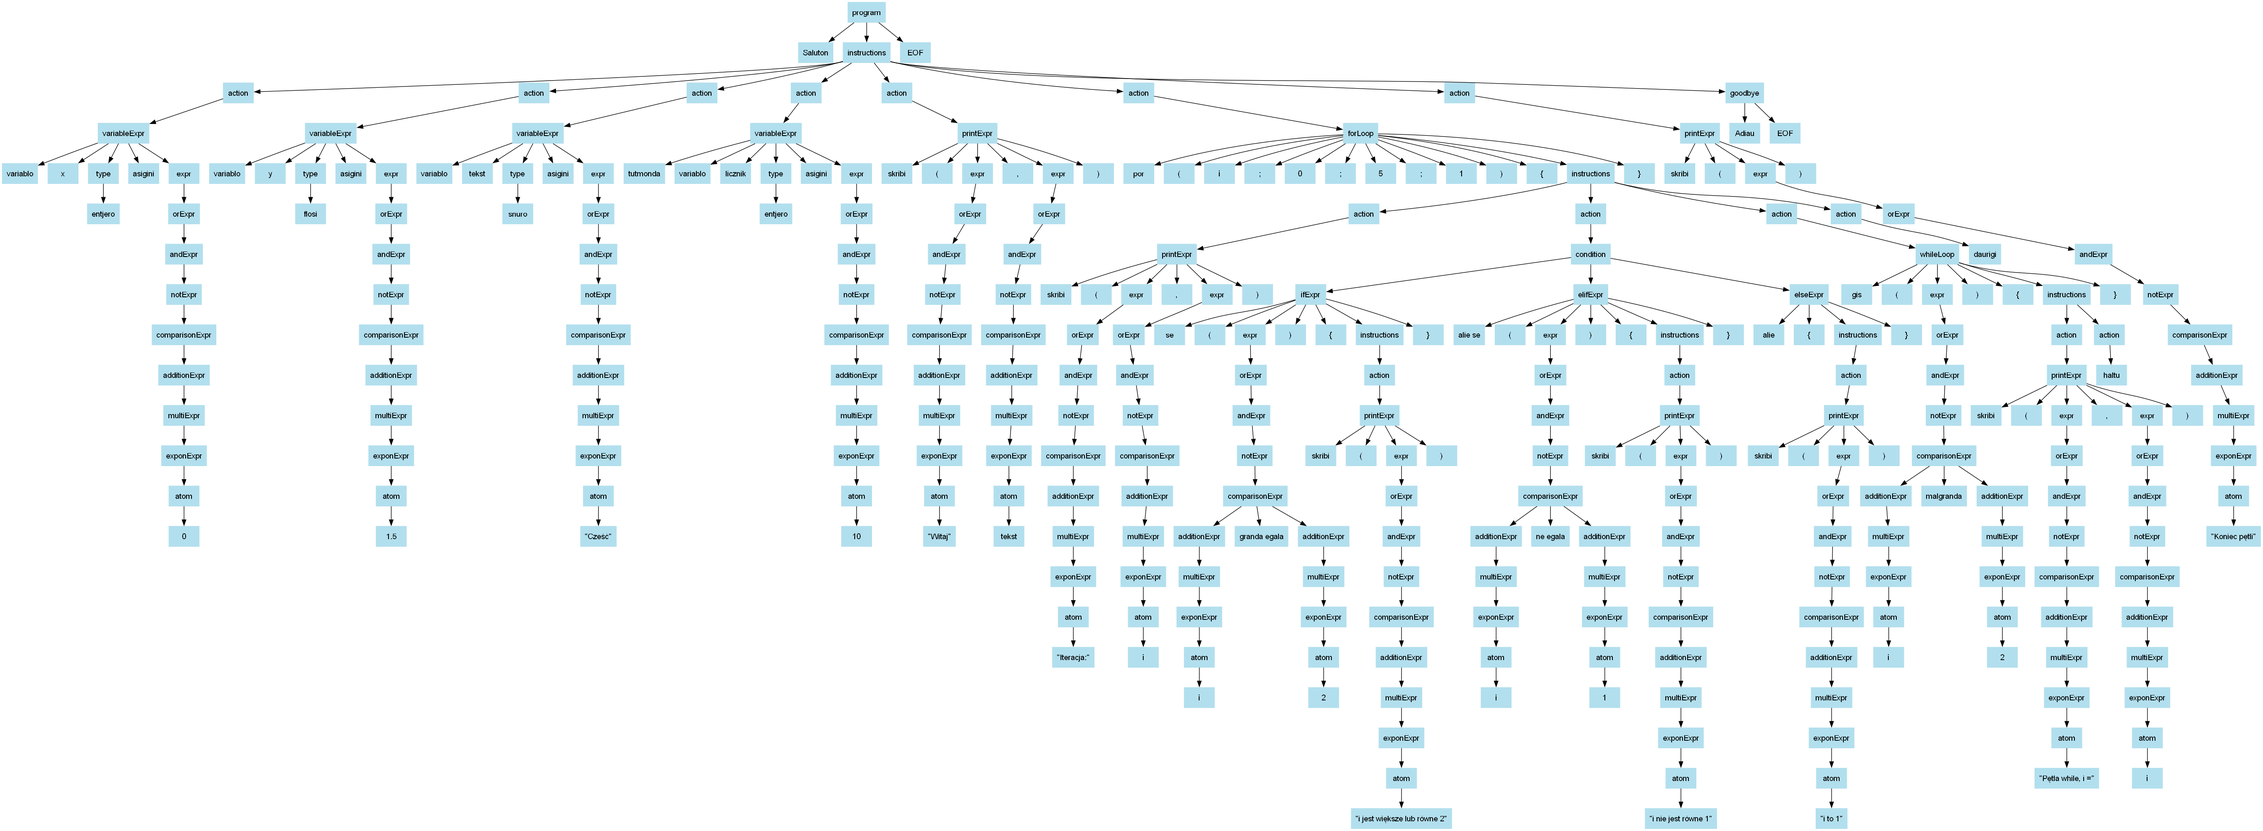
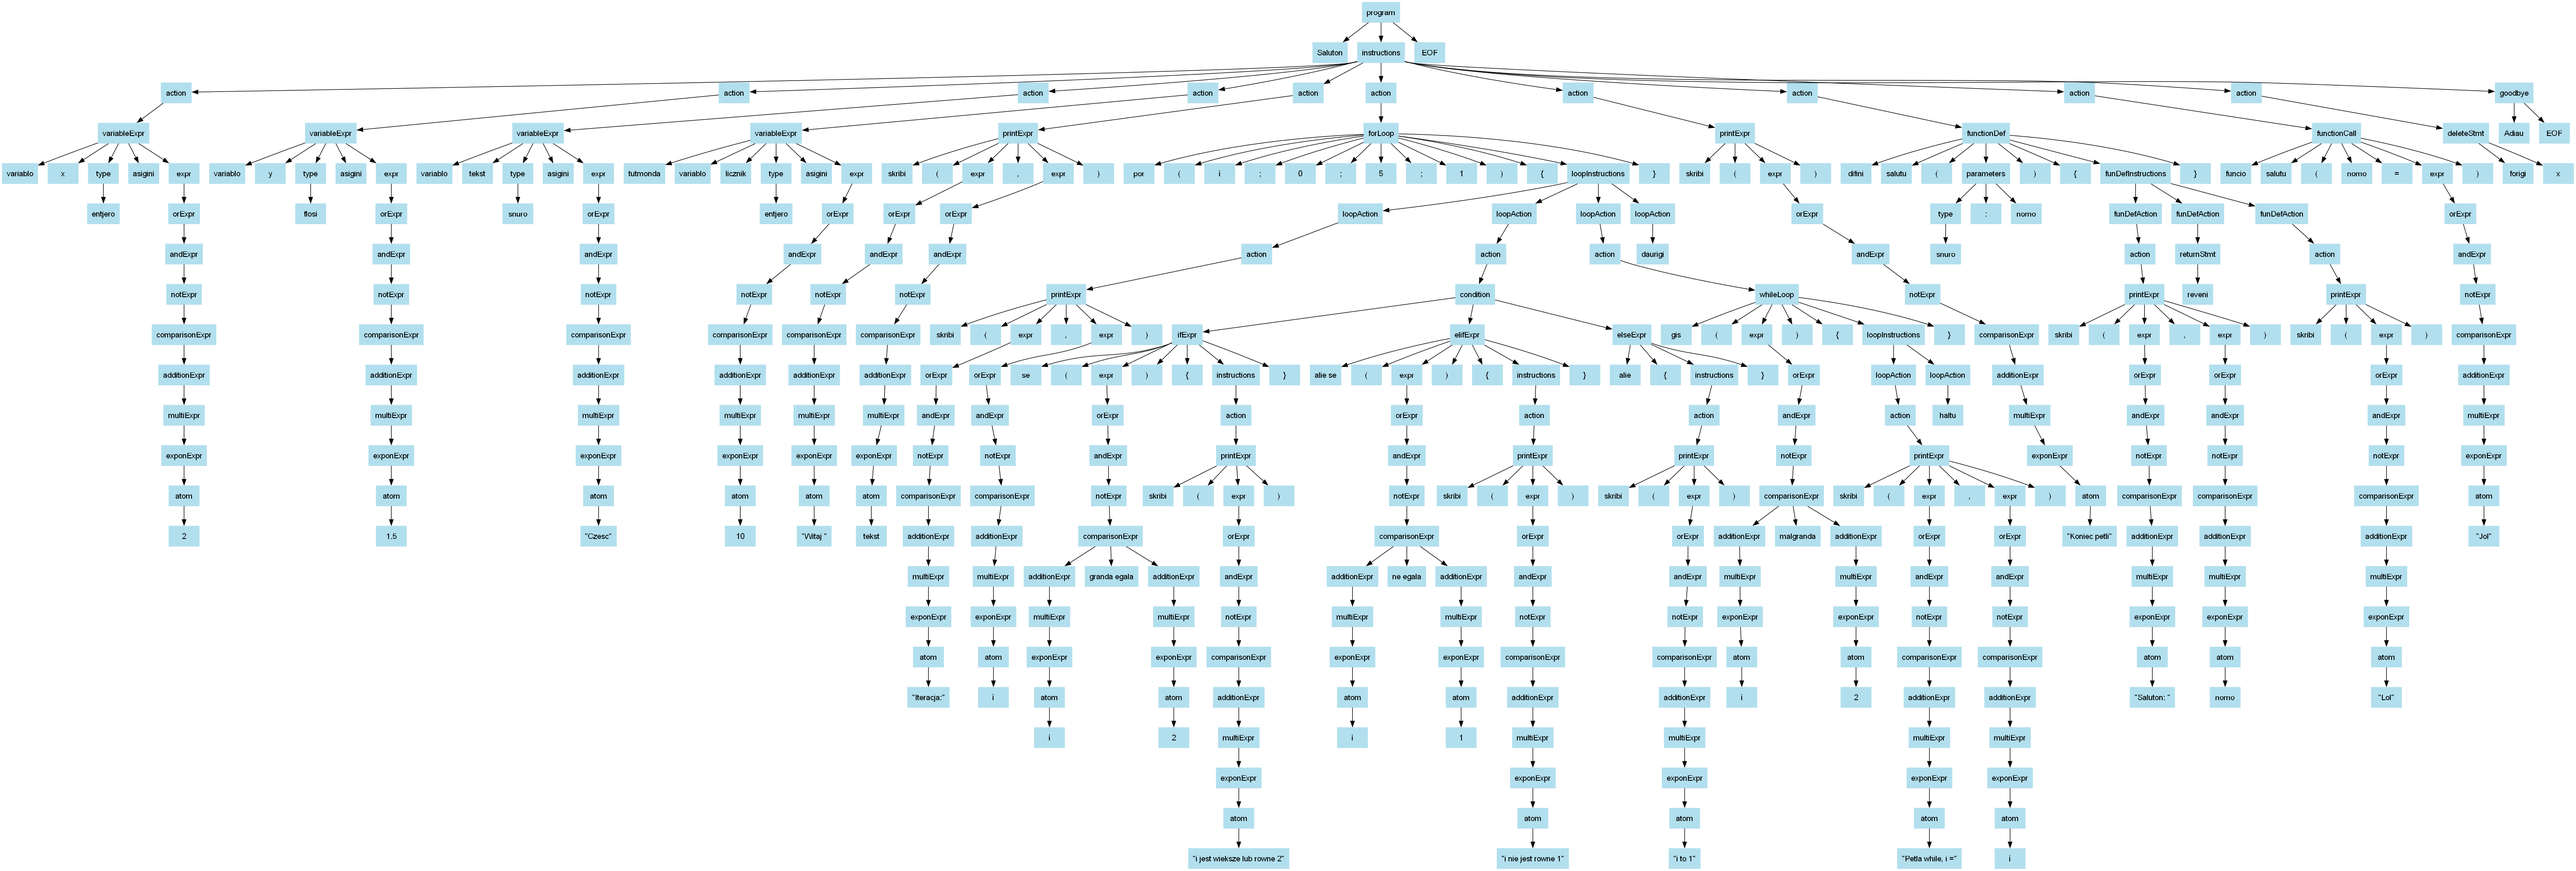
Grammar (#4)
Gramatyka obsługuje dodatkowo:
* definiowanie funkcji
* wywoływanie funkcji
* kończenie wywołania funkcji słowek REVENI
* funkcji DELETE do usuwania zmiennych z pamięci

Changed region(s): [[0.0, 0.0, 1.0, 1.0]]

diff --git a/Grammar/spis_tokenów.md b/Grammar/spis_tokenów.md
@@ -16,8 +16,8 @@
 | `au`         | or                 | Logical operator       | ✅     |
 | `haltu`      | break              | Loop control           | ✅     |
 | `daurigi`    | continue           | Loop control           | ✅     |
-| `difini`     | def                | Function definition    |        |
-| `forigi`     | delete             | Deletion               |        |
+| `difini`     | def                | Function definition    | ✅     |
+| `forigi`     | delete             | Deletion               | ✅     |
 | `provu`      | try                | Exception handling     |        |
 | `krom`       | except             | Exception handling     |        |
 | `malvero`    | false              | Boolean literal        | ✅     |
@@ -29,7 +29,7 @@
 | `funkcio`    | lambda             | Anonymous function     |        |
 | `nenio`      | none               | Null literal           |        |
 | `ne`         | not                | Logical negation       | ✅     |
-| `reveni`     | return             | Return statement       |        |
+| `reveni`     | return             | Return statement       | ✅     |
 | `Saluton`    | (start of program) | Program entry point    | ✅     |
 | `Adiau`      | (end of program)   | Program termination    | ✅     |
 
@@ -73,7 +73,7 @@
 | `[`      | left_bracket         | Indexing/list start    |        |
 | `]`      | right_bracket        | Indexing/list end      |        |
 | `,`      | comma                | Separator              | ✅     |
-| `:`      | colon                | ForEach condition sep  |        |
+| `:`      | colon                | ForEach condition sep  | ✅     |
 | `;`      | semicolon            | ForLoop condition sep  | ✅     |
 | `:O...`  | comment_symbol       | Comment                | ✅     |
 | `:P...P:`| commentblock_symbols | Comment Block          | ✅     |

diff --git a/README.md b/README.md
@@ -85,12 +85,12 @@ Projekt zakłada stworzenie gramatyki i interpretera języka Esperados, który p
 ```esperando
 Saluton
 
-difini salutu(nomo: snuro){
+difini salutu(snuro: nomo){
     skribi("Saluton, ", nomo)
 }
 
 por ciu (variablo en ["Mia", "Eta", "Amiko"]){
-    salutu(variablo)
+    salutu(nomo = variablo)
 }
 
 Adiau
@@ -121,9 +121,9 @@ Adiau
 - [ ] Definiowanie list, map, tablic.
 - [ ] Wyrażenia logiczne z operatorem `IN` (`en`) – sprawdzanie przynależności do listy/mapy/tablicy.
 - [ ] Pętla `for each`.
-- [ ] Definicje funkcji, wywołania funkcji, klasy (do rozważenia).
 
 <sub><i>Opcjonalnie:</i></sub>  
+- [ ] Definicje klas (do rozważenia).
 - [ ] Wymuszanie typu zmiennej (np. `string(5)`, `int("56")`).
 - [ ] Operator `IS` (`estas`) – sprawdzanie typu zmiennej.
 - [ ] Operacje na stringach (`indexOf` itp.).
@@ -132,9 +132,9 @@ Adiau
 ---
 
 ### Visitor (interpretacja):
-- [ ] Rozdzielenie zmiennych na globalne i lokalne (funkcyjne).
+- [ ] Dodanie zmiennych globalnych.
 - [ ] Obsługa wymuszania typu przy definicji i za pomocą funkcji.
-- [ ] Implementacja pętli `for`, `for each`, `while`, klas, funkcji i lambd.
+- [ ] Implementacja pętli `for each`, klas, lambd, wczytywania z konsoli.
 - [ ] Obsługa list, map, dynamicznych tablic.
 - [ ] Wsparcie dla polskich znaków i białych znaków (np. `\n`).
 
